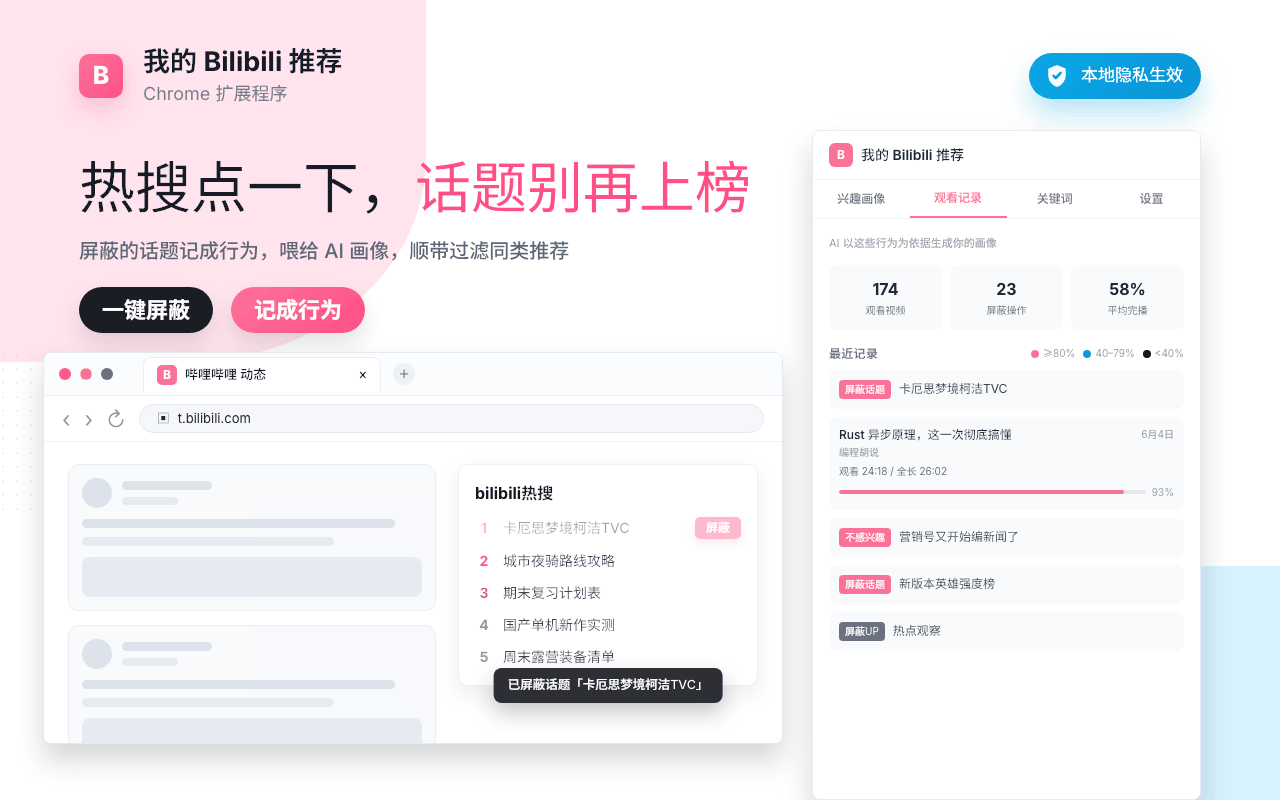
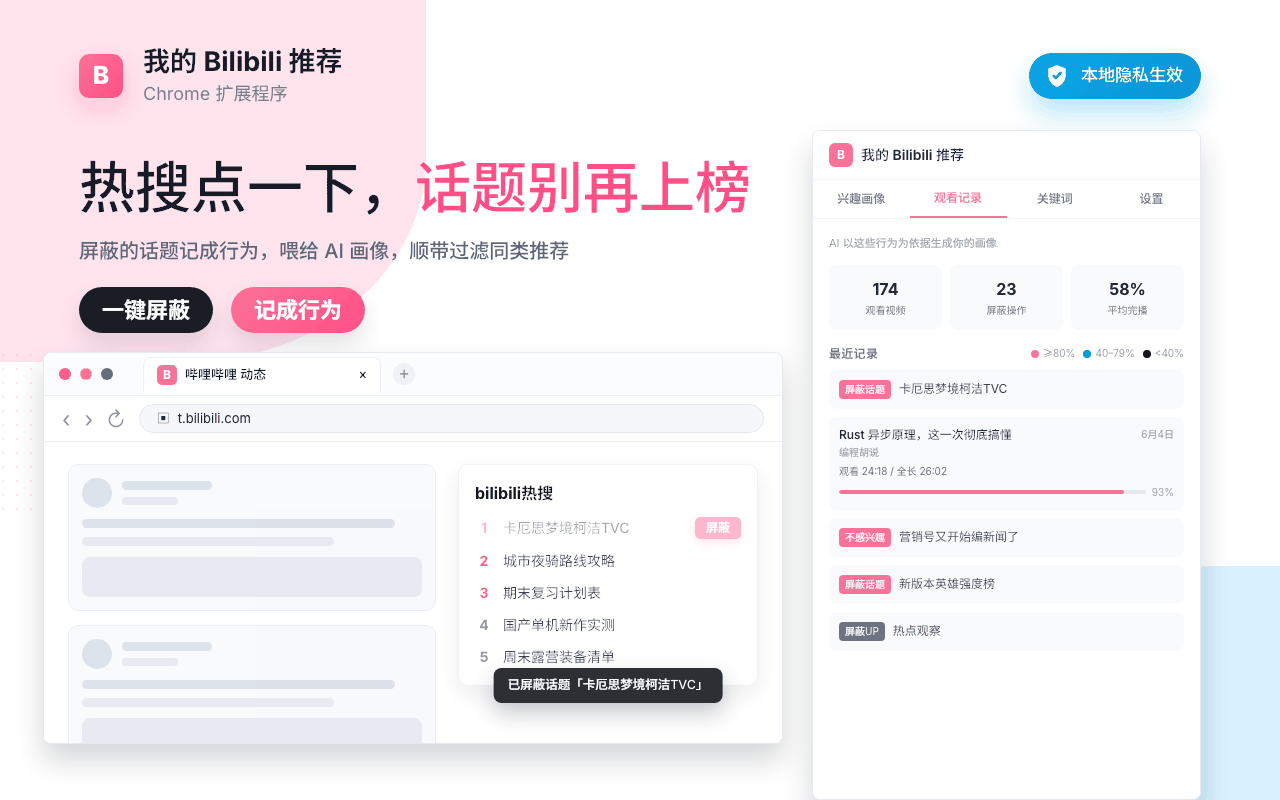
fix(promo): keep hero headline at 500, only the privacy badge goes to 400
The previous commit dropped both to 400; the intent was a lighter top-right
privacy badge while the hero headline keeps more presence at 500 (Medium).
Re-rendered the affected screenshots.

diff --git a/src/promo/scenes/marquee-banner.tsx b/src/promo/scenes/marquee-banner.tsx
@@ -32,7 +32,7 @@ export default function MarqueeBannerScene() {
 
       {/* Hero block left-center */}
       <section style={{ position: 'absolute', left: 60, top: 140, zIndex: 3 }}>
-        <h1 style={{ width: 760, fontSize: 64, lineHeight: 1.15, fontWeight: 400, color: '#171b26' }}>
+        <h1 style={{ width: 760, fontSize: 64, lineHeight: 1.15, fontWeight: 500, color: '#171b26' }}>
           你的 B 站，<span style={{ color: '#ff4f86' }}>由你做主</span>
         </h1>
         <p style={{ marginTop: 18, width: 760, fontSize: 22, lineHeight: 1.45, fontWeight: 500, color: '#5e6677' }}>

diff --git a/src/promo/scenes/keywords-blocking.tsx b/src/promo/scenes/keywords-blocking.tsx
@@ -80,7 +80,7 @@ export default function KeywordsBlockingScene() {
 
       {/* Hero 文案 */}
       <section style={{ position: 'absolute', left: 79, top: 155, zIndex: 3 }}>
-        <h1 style={{ width: 720, fontSize: 56, lineHeight: 1.18, fontWeight: 400, color: '#171b26' }}>
+        <h1 style={{ width: 720, fontSize: 56, lineHeight: 1.18, fontWeight: 500, color: '#171b26' }}>
           手输关键词，<span style={{ color: '#ff4f86' }}>说屏蔽就屏蔽</span>
         </h1>
         <p style={{ marginTop: 16, fontSize: 20, lineHeight: 1.4, fontWeight: 500, color: '#5e6677' }}>

diff --git a/src/promo/scenes/filter-recommendations.tsx b/src/promo/scenes/filter-recommendations.tsx
@@ -89,7 +89,7 @@ export default function FilterRecommendationsScene() {
 
       {/* Hero 文案 */}
       <section style={{ position: 'absolute', left: 79, top: 155, zIndex: 3 }}>
-        <h1 style={{ width: 690, fontSize: 56, lineHeight: 1.18, fontWeight: 400, color: '#171b26' }}>
+        <h1 style={{ width: 690, fontSize: 56, lineHeight: 1.18, fontWeight: 500, color: '#171b26' }}>
           屏蔽不想看的<span style={{ color: '#ff4f86' }}>推荐内容</span>
         </h1>
         <p style={{ marginTop: 16, fontSize: 20, lineHeight: 1.4, fontWeight: 500, color: '#5e6677' }}>

diff --git a/src/promo/scenes/hot-search-block.tsx b/src/promo/scenes/hot-search-block.tsx
@@ -98,7 +98,7 @@ export default function HotSearchBlockScene() {
 
       {/* Hero 文案 */}
       <section style={{ position: 'absolute', left: 79, top: 155, zIndex: 3 }}>
-        <h1 style={{ width: 720, fontSize: 56, lineHeight: 1.18, fontWeight: 400, color: '#171b26' }}>
+        <h1 style={{ width: 720, fontSize: 56, lineHeight: 1.18, fontWeight: 500, color: '#171b26' }}>
           热搜点一下，<span style={{ color: '#ff4f86' }}>话题别再上榜</span>
         </h1>
         <p style={{ marginTop: 16, fontSize: 20, lineHeight: 1.4, fontWeight: 500, color: '#5e6677' }}>

diff --git a/src/promo/scenes/popular-coverage.tsx b/src/promo/scenes/popular-coverage.tsx
@@ -95,7 +95,7 @@ export default function PopularCoverageScene() {
 
       {/* Hero 文案 */}
       <section style={{ position: 'absolute', left: 79, top: 155, zIndex: 3 }}>
-        <h1 style={{ width: 700, fontSize: 56, lineHeight: 1.18, fontWeight: 400, color: '#171b26' }}>
+        <h1 style={{ width: 700, fontSize: 56, lineHeight: 1.18, fontWeight: 500, color: '#171b26' }}>
           热门页，也帮你<span style={{ color: '#ff4f86' }}>筛一遍</span>
         </h1>
         <p style={{ marginTop: 16, fontSize: 20, lineHeight: 1.4, fontWeight: 500, color: '#5e6677' }}>

diff --git a/src/promo/scenes/multi-provider.tsx b/src/promo/scenes/multi-provider.tsx
@@ -76,7 +76,7 @@ export default function MultiProviderScene() {
 
       {/* Hero 文案 */}
       <section style={{ position: 'absolute', left: 79, top: 155, zIndex: 3 }}>
-        <h1 style={{ width: 720, fontSize: 56, lineHeight: 1.18, fontWeight: 400, color: '#171b26' }}>
+        <h1 style={{ width: 720, fontSize: 56, lineHeight: 1.18, fontWeight: 500, color: '#171b26' }}>
           自带 Key，<span style={{ color: '#ff4f86' }}>多家任选</span>
         </h1>
         <p style={{ marginTop: 16, fontSize: 20, lineHeight: 1.4, fontWeight: 500, color: '#5e6677' }}>

diff --git a/src/promo/scenes/history-insights.tsx b/src/promo/scenes/history-insights.tsx
@@ -68,7 +68,7 @@ export default function HistoryInsightsScene() {
 
       {/* Hero 文案 */}
       <section style={{ position: 'absolute', left: 79, top: 155, zIndex: 3 }}>
-        <h1 style={{ width: 690, fontSize: 56, lineHeight: 1.18, fontWeight: 400, color: '#171b26' }}>
+        <h1 style={{ width: 690, fontSize: 56, lineHeight: 1.18, fontWeight: 500, color: '#171b26' }}>
           AI <span style={{ color: '#ff4f86' }}>越来越懂你</span>
         </h1>
         <p style={{ marginTop: 16, fontSize: 20, lineHeight: 1.4, fontWeight: 500, color: '#5e6677' }}>
